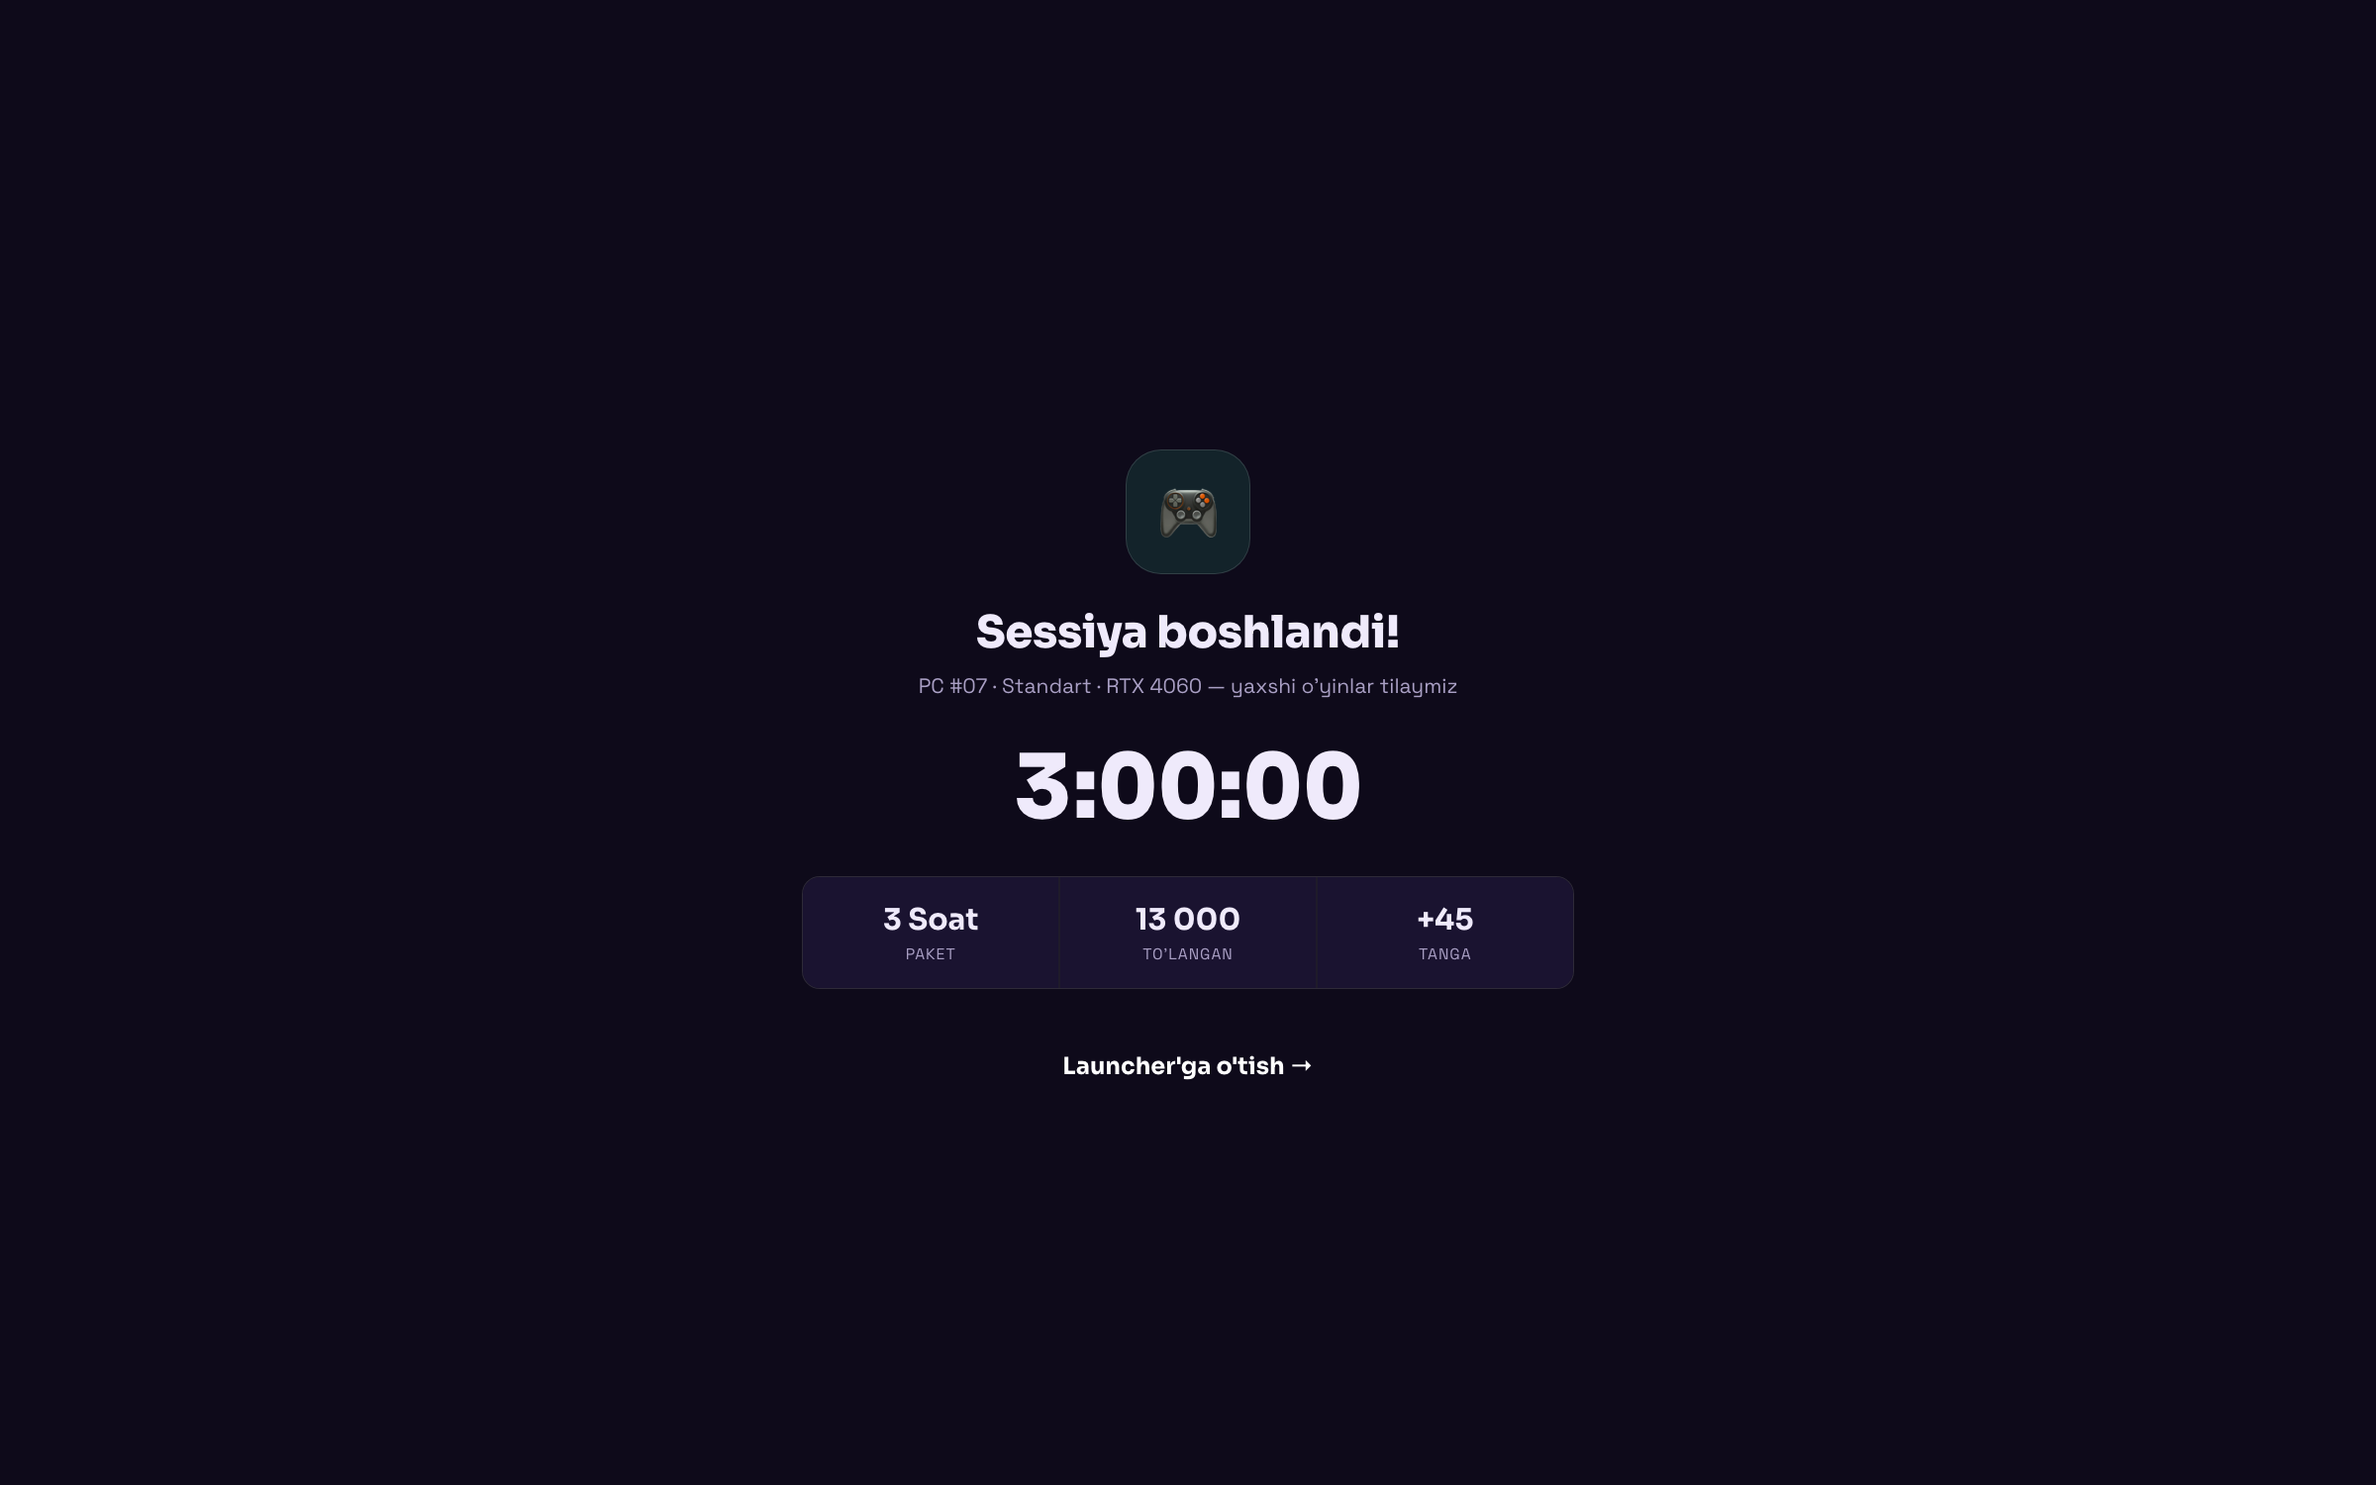
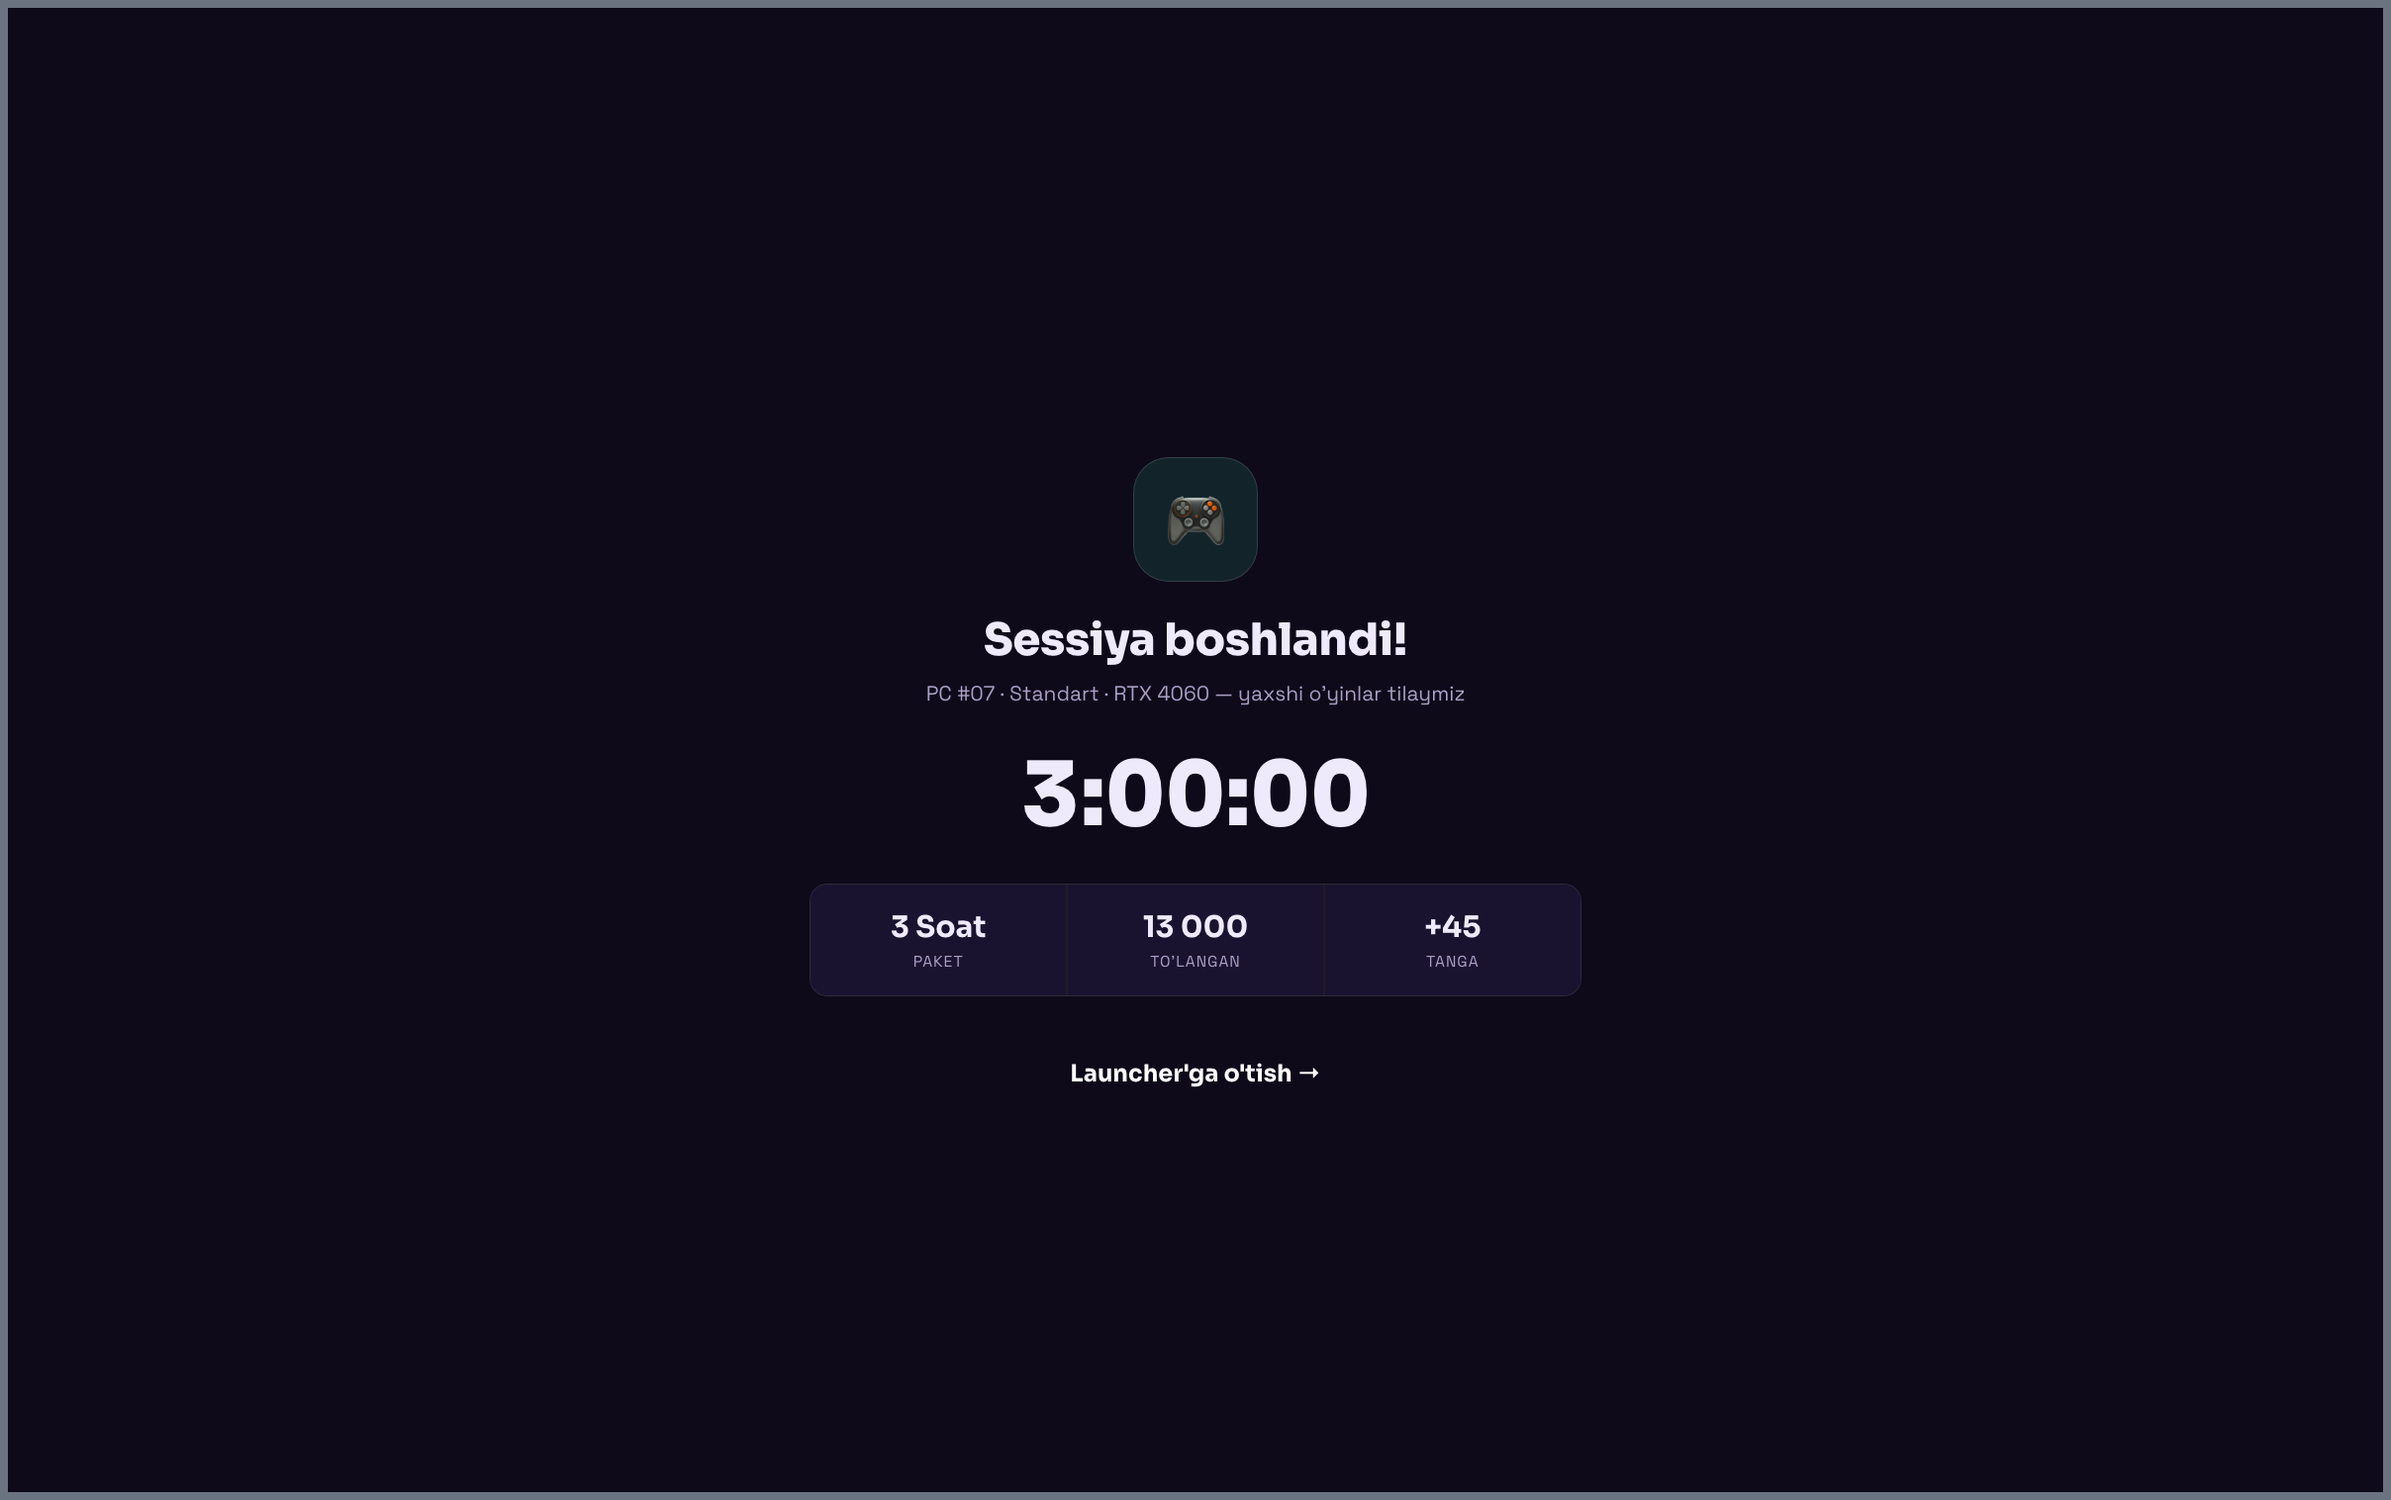
docs: update contact email and add visible borders to screenshots
- Contact email changed from hello@defuse.uz to ibektosh3@gmail.com
- Added 8px medium-gray border to all 7 screenshots so they stay visible against GitHub dark/light theme backgrounds

diff --git a/README.md b/README.md
@@ -145,7 +145,7 @@ flutter run
 ## Contact
 
 - 🌐 Web — **defuse.uz** (coming soon)
-- 📧 Email — **hello@defuse.uz**
+- 📧 Email — **ibektosh3@gmail.com**
 - 💼 GitHub — [ibektosh3-lgtm](https://github.com/ibektosh3-lgtm)
 
 ---
